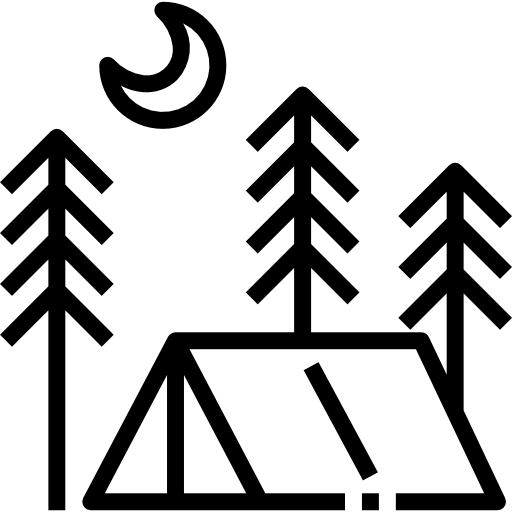
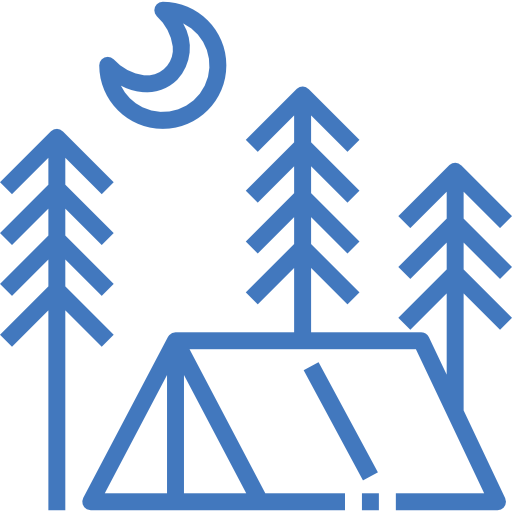
Изменил цветовую гамму приложения.

Changed region(s): [[0.0, 0.1562, 1.0, 1.0], [0.1875, 0.0, 0.4688, 0.25]]

diff --git a/src/js/components/Campings/CampingCard/CampingCard.scss b/src/js/components/Campings/CampingCard/CampingCard.scss
@@ -43,8 +43,8 @@
     margin-bottom: 10px;
   }
   &__reviews {
-    border-bottom: 1px dashed rgb(214, 212, 212);
-    color: rgb(107, 107, 107);
+    border-bottom: 1px dashed #537db36e;
+    color: #4278BE;
   }
   &__star svg {
     width: 20px;
@@ -67,6 +67,9 @@
     border-radius: 15px;
     width: 100%;
     height: 100%;
+    @media screen and (max-width: 650px) {
+      max-height: 300px;
+    }
   }
   &__name {
     color: black;

diff --git a/src/sass/blocks/paginate.scss b/src/sass/blocks/paginate.scss
@@ -10,7 +10,7 @@
       padding: 15px 20px;
       margin: 0 5px;
       border-radius: 100px;
-      border: 1px solid #313131;
+      border: 1px solid #4278BE;
       color: #141414;
       @media screen and (max-width: 767px) {
         margin: 0px;
@@ -26,7 +26,7 @@
     &_active {
       a {
         color: #fff;
-        background: #313131;
+        background: #4278BE;
       }
     }
     &_disabled {

diff --git a/src/js/components/MobileDownbar/MobileDownbar.less b/src/js/components/MobileDownbar/MobileDownbar.less
@@ -34,7 +34,7 @@
   &__link {
     color: black;
     &_active {
-      color: rgb(97, 179, 3);
+      color: #4278BE;
     }
   }
 }
